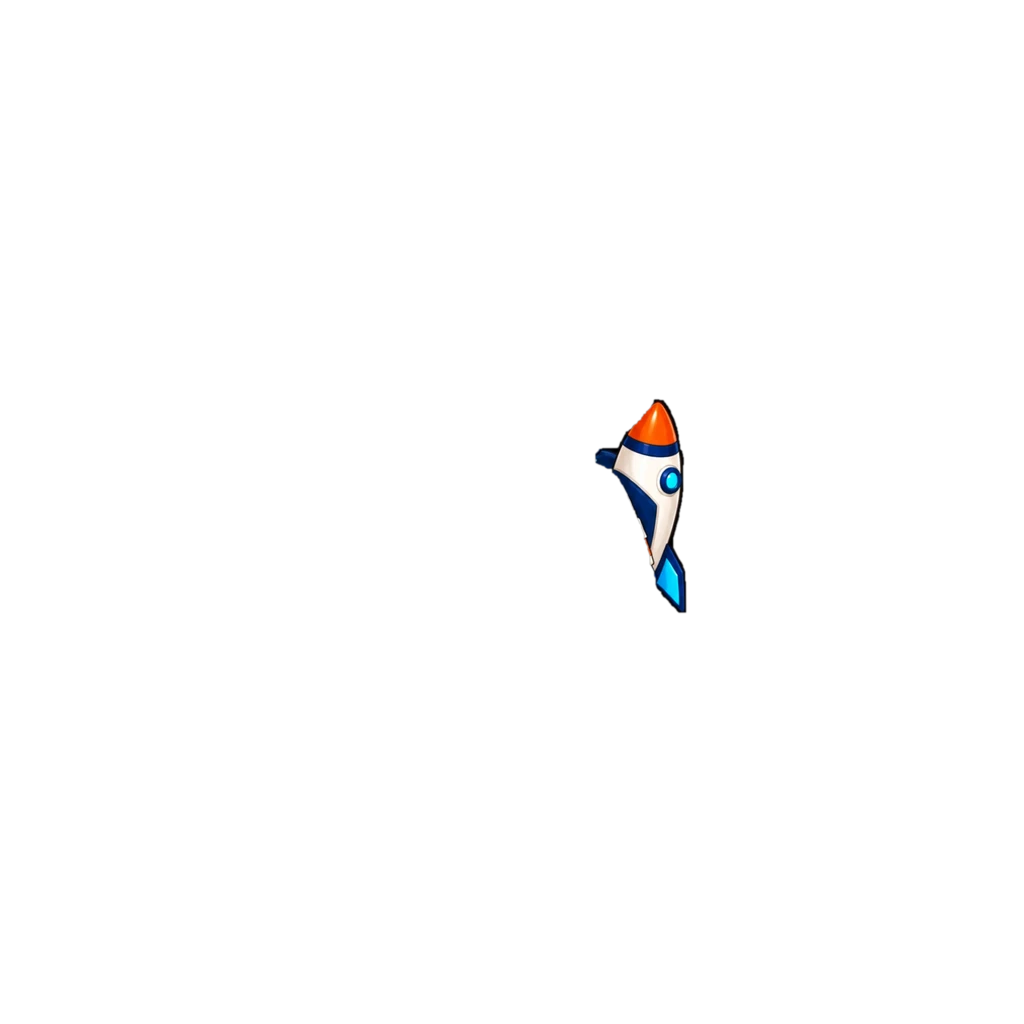
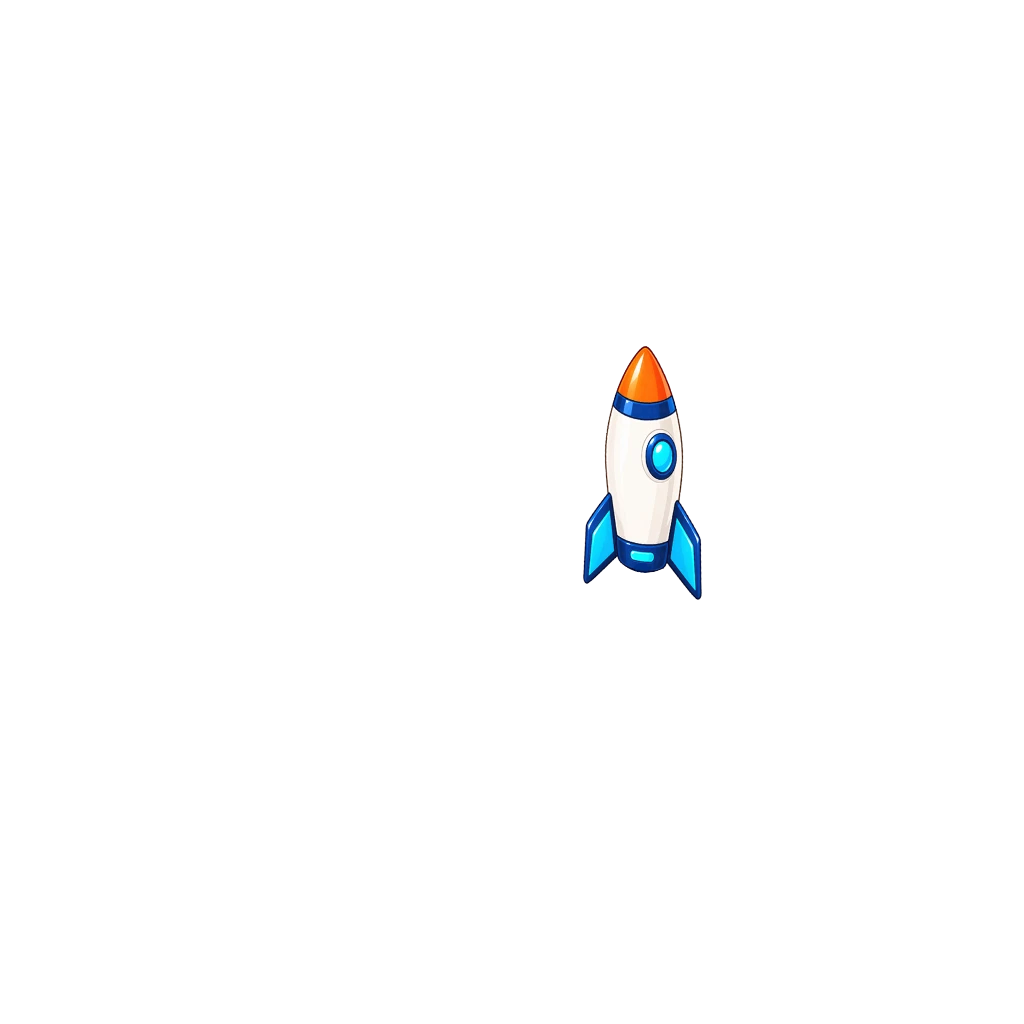
남아 로켓 가방 새 원화로 교체 — 로켓은 몸 뒤, 어깨끈은 옷 위 (칼라 규칙 적용) (#1023)
Claude-Session: https://claude.ai/code/session_018maNuYqDfFyRSe9uKpZhPR

Changed region(s): [[0.5625, 0.3438, 0.6875, 0.5938]]

diff --git a/src/data/avatarEquipment.js b/src/data/avatarEquipment.js
@@ -522,9 +522,6 @@ export const AVATAR_CATALOG = [
      같은 배율(0.638)·목깃선(y640)으로 탑재해 우주복과 갈아입어도 자리가 안 어긋난다.
      [2026-09-30] 우주 헬멧(hat_astronaut)은 사용자가 미리보기를 보고 바로
      빼 달라고 해서 뺐다 — 아래 RETIRED_ITEM_INFO 참고, 그림 파일은 남겨 둔다. */
-  /* 로켓 가방 — 원화가 어깨 너머로 들여다본 모습이라, 몸통에 가려지는 부분은 버리고
-     실루엣 밖으로 삐져나온 로켓 덩어리만 오려 냈다(등 슬롯 기본 z15 그대로 — 몸통 뒤에서
-     튀어나온 부분만 보이면 되므로 앞으로 끌어올 필요가 없었다). */
   /* 해적 가방(처음 이름 탐험 가방) [2026-10-05] — 남아. 갈색 가죽 배낭 + 지도 두루마리(사용자 원화 290×373) · 어깨끈(사용자 원화 263×198).
      한 아이템이 몸 앞뒤로 나뉜다 — 가방 몸통(img)은 등 장비 기본 z15 로 몸 뒤에, 어깨끈(imgFront)은 zFront 48 로
      옷·목 장식 위(모자 50 아래)에 그린다. 끈은 배율 0.76·가운데 x516·위끝 y414(어깨 윗선), 가방은 배율 0.70·원점 (505,350)
@@ -540,7 +537,11 @@ export const AVATAR_CATALOG = [
      옷이 넓어진 만큼 가로도 따라가게(왼쪽 끈 왼쪽으로 3·오른쪽 끈 오른쪽으로 1). 끈 상자 (428,406,600,556). imgFront ?v=6. */
   /* [2026-10-13] 칼라가 끈 위로 — 바다·번개·도토리(썸머·우주는 사용자 요청으로 원래대로 끈이 칼라 위): 그 옷 칼라·후드·망토 모자 모양대로 끈을 지운 판(topVariant, art-src/tools/collar_cut.py). */
   { id: "back_explorer",  slot: "back",  label: "해적 가방",    emoji: "🏴☠", price:DECOR_PRICE.rare, rarity: "rare", theme: "pirate", forGender: "boy", img: "assets/avatar/back/explorer-pack-boy.webp?v=3", imgFront: "assets/avatar/back/explorer-pack-straps-boy.webp?v=6", zFront: 48, topVariant: { top_acorn: { imgFront: "assets/avatar/back/explorer-pack-straps-acorn-boy.webp" }, top_board_boy: { imgFront: "assets/avatar/back/explorer-pack-straps-board-boy.webp" }, top_hoodie_mint: { imgFront: "assets/avatar/back/explorer-pack-straps-hoodie-boy.webp" } }, thumb: "assets/avatar/thumb/back_explorer.webp" },
-  { id: "back_rocket",    slot: "back",  label: "로켓 가방",    emoji: "🚀", price:DECOR_PRICE.rare, rarity: "rare", theme: "space", forGender: "boy", img: "assets/avatar/back/rocket-pack-boy.webp", thumb: "assets/avatar/thumb/back_rocket.webp" },
+  /* 로켓 가방 [2026-10-13 새 원화로 교체] — 남아. 흰 로켓(주황 머리·파랑 창·날개, 사용자 원화 210×447) + 남색 어깨끈 두 줄(251×178). 우주 탐험대와 짝.
+     사용자 참고 그림을 우주복 가슴(패널·배지)으로 매칭해 아바타 좌표에 올림. 로켓은 몸 뒤 오른쪽(등 장비 기본 z15) —
+     머리 끝 (645,348)·배율 0.58·-6°, 상자 (582,345,702,601). 어깨끈은 조각마다 배율 0.62, 윗선은 몸 어깨선·바깥선은 팔과 몸통 사이 선에 맞춤,
+     옷 위 zFront 48, 상자 (435,408,594,519). 칼라가 끈 위로 — 바다·번개·썸머·도토리·우주는 그 옷 칼라·후드 모양대로 끈을 지운 판(topVariant). */
+  { id: "back_rocket",    slot: "back",  label: "로켓 가방",    emoji: "🚀", price:DECOR_PRICE.rare, rarity: "rare", theme: "space", forGender: "boy", img: "assets/avatar/back/rocket-pack-boy.webp?v=2", imgFront: "assets/avatar/back/rocket-pack-straps-boy.webp", zFront: 48, topVariant: { top_hoodie_mint: { imgFront: "assets/avatar/back/rocket-pack-straps-hoodie-boy.webp" }, top_board_boy: { imgFront: "assets/avatar/back/rocket-pack-straps-board-boy.webp" }, top_beach_boy: { imgFront: "assets/avatar/back/rocket-pack-straps-beach-boy.webp" }, top_acorn: { imgFront: "assets/avatar/back/rocket-pack-straps-acorn-boy.webp" }, top_space: { imgFront: "assets/avatar/back/rocket-pack-straps-space-boy.webp" } }, thumb: "assets/avatar/thumb/back_rocket.webp?v=2" },
   /* 번개 크로스백 [2026-10-11] — 남아. 남색·청록 크로스백(노란 지퍼 고리·검정 끈) 한 장, 사용자 원화 254×277. 번개 스케이터와 짝.
      사용자 참고 그림(얼굴 매칭 0.965)대로 왼쪽 어깨(452,418)에서 오른쪽 가슴 아래로 — 끈 윗끝·노란 지퍼 고리(556,543) 두 점 맞춤, 배율 0.723·-6.0°.
      옷 위·목 장식 아래 z 38. 상자 (434,411,631,595).

diff --git a/art-src/README.md b/art-src/README.md
@@ -356,7 +356,7 @@ getBoundingClientRect로 재서 정한다. 2026-08-05 점검에서 이 기준을
 | sky-girl-tights-src.webp | 위 옷의 **타이츠 있는 판** (알파 상자 (206,707)-(625,1582)). **안 썼다** — 아래 '옷만 오려 낸 원화' 절 참고. 타이츠 아이템을 따로 만들 때 다시 쓸 수 있어 남겨 둔다 | (미탑재) |
 | space-boy-src.webp | **우주복 원화 남아 — 새 판 (사용자 원화 2026-10-03, 이전 판 교체)**. 461×713 투명 배경, 흰 우주복(남색 목깃·어깨·소매·벨트·무릎보호대, 제어판·토성 패치, 주황 포인트) 발목까지 한 벌 — 앞 판(2026-09-29 우주 세트)과 같은 디자인에 어깨·소매가 다 그려졌다. 목깃 안(원화 y0~31, x140~329)의 R≥B 픽셀(턱선·목 살)을 지워 베이스 목이 비치게 했다. 앞 판 자리(배율 0.716, 상관 0.95)에서는 어깨 위로 베이스 어깨·속옷 끈이 비쳐, 목깃 가운데 x230.5 → x516, 배율 0.758, 목깃 위끝 y394 로 올려 어깨를 덮음. 바지 끝 y934 가 우주 부츠의 부츠목을 덮는다. 탑재 상자 (341,394,690,934) · img ?v=4 **[2026-10-03 조정]** 8% 작게(0.6974, 목깃 고정), 상자 (355,394,677,891) · img ?v=5. 위로 3(목깃 y391), 상자 (355,391,677,888) · img ?v=6. 왼쪽 3·위로 2(목깃 x513·y389), 상자 (352,389,674,886) · img ?v=7. 오른쪽 1(목깃 x514), 상자 (353,389,675,886) · img ?v=8. 1% 작게(0.6904)·위로 1(목깃 y388), 상자 (355,388,673,880) · img ?v=9. 화면 왼쪽 다리만 오른쪽으로 1(사타구니 y676 부터 60px 에 걸쳐 0→1px) · img ?v=10. 같은 방식으로 1 더(합계 2px) · img ?v=11 | avatar/top/space-suit-boy.webp |
 | astronaut-helmet-boy-src.webp | **우주 헬멧 원화 남아 (사용자 원화 2026-09-29, 우주 세트 2/4 — '옷+헬멧' 그림에서 목깃 아래를 잘라 보관)** — 554×480 캔버스, 이미 '쓰고 있는 머리 그림'이라 얼굴 위치를 눈으로 맞출 필요가 없었다. 흰 돔 + 남색 링·귀 스피커 + 하늘색 바이저 하이라이트. hidesHead(베이스 머리 전체를 이 그림이 대신한다). 배율은 우주복과 같은 0.638 — 헬멧 밑단(목깃 최고점, 원화 y632)을 우주복 목깃 위끝(y640)과 같은 자리(y405)에 맞춰서 둘 사이에 틈이나 겹침이 없다. 탑재 상자 (216,2)-(569,308). **[2026-09-30] 사용자가 미리보기로 써 보고 바로 빼 달라고 해서 카탈로그에서 뺐다**(hat_astronaut, RETIRED_ITEM_INFO) — 그림·원본은 CLAUDE.md 6 번과 달리 '교체'가 아니라 '보류'라 그대로 둔다 | avatar/hat/astronaut-helmet-boy.webp |
-| rocket-pack-boy-src.webp | **로켓 가방 원화 남아 (사용자 원화 2026-09-29, 우주 세트 4/4 — '옷+헬멧+가방+신발' 그림에서 오려 냄)** — 142×321 캔버스. 원화가 어깨 너머로 비스듬히 얹힌 로켓이라, 등 슬롯 기본 z(15, 몸통 뒤)로 두면 몸통 실루엣 밖으로 삐져나온 부분만 보이는데 그게 딱 원화가 보여 주는 모습이라 **z를 따로 안 올렸다**(탐험 배낭 어깨끈과 달리 앞으로 끌어올 필요가 없었다). 떼어내는 방법: '같은 세트의 신발까지만 있는 그림'(옷+헬멧+신발, 가방 없음)과 특징점 정합(ORB)한 뒤, 몸통 실루엣을 15px 넉넉히 부풀려 그 밖으로 나온 덩어리만 남겼다(색차가 아니라 실루엣 비교라 몸통색과 겹쳐도 안전). 탑재 배율 0.638 그대로, 세트 정합으로 계산한 상자 (222,39 기준계)를 거쳐 최종 탑재 | avatar/back/rocket-pack-boy.webp |
+| rocket-pack-boy-src.webp · rocket-pack-straps-boy-src.webp | **로켓 가방 원화 남아 (사용자 원화 2026-10-13, 새 버전으로 교체)** — 흰 로켓 210×447 + 남색 어깨끈 두 줄 251×178, 우주 탐험대와 짝. 참고 그림을 우주복 가슴으로 매칭해 로켓은 몸 뒤 오른쪽(z15) 머리 끝 (645,348)·배율 0.58·-6°, 상자 (582,345,702,601). 어깨끈은 왼쪽(x0~125)·오른쪽(x126~) 조각마다 배율 0.62, 윗선 어깨선·바깥선 팔과 몸통 사이 선, zFront 48, 상자 (435,408,594,519). 칼라 있는 5벌(바다·번개·썸머·도토리·우주)은 칼라 모양대로 끈을 지운 판. 상점 그림은 로켓 원화를 세로 160px 로 | avatar/back/rocket-pack-boy.webp · avatar/back/rocket-pack-straps-boy.webp · avatar/back/rocket-pack-straps-{hoodie,board,beach,acorn,space}-boy.webp · thumb/back_rocket.webp |
 | astronaut-boots-boy-src.webp | **우주 부츠 원화 남아 — 새 판 (사용자 원화 2026-10-03, 이전 판 교체)**. 352×173 투명 배경, 남색·흰 우주 부츠(하늘색 띠·주황 탭) 두 짝. 두 짝(x0~141 · x213~351)을 따로 잘라 배율 0.72, 부츠목 가운데를 남아 다리 가운데(x450.5·x574.5)에 두고 왼짝 +2·오른짝 −2, 밑창 아래끝 y949. 맨발 9px. 옷 위로(z37). 탑재 상자 (391,824,632,949). 상점 그림도 원화를 세로 160px 로 바꿈. **[2026-10-03 조정]** 두 짝 1% 크게(0.7272), 상자 (391,823,632,949) · img ?v=3. 화면 왼쪽 짝만 왼쪽으로 2, 상자 (389,823,632,949) · img ?v=4 | avatar/shoes/astronaut-boots-boy.webp · thumb/shoes_astronaut.webp |
 | pirate-boots-boy-src.webp | **[2026-10-03 판매 중단]** 사용자 요청으로 상점에서 뺐다(산 아이 200코인 환불, 꼬마해적 신발이 대신 들어옴). 그림·원본은 남겨 둔다. **해적 신발 원화 남아 (사용자 원화 2026-10-01)** — 1848×851 캔버스, 받을 때 이미 알파가 있었지만 **알파 1~19 짜리 헤일로 5,506px**가 있어 눌러서 보관했다(알파≥20 상자 (501,248)-(1325,673), 눌러 자른 저장본은 825×426). 갈색 가죽 + 금색 버클. **탑재**: 베이스 다리가 신발 짝 사이 간격보다 좁아 균등 배율(0.3404)로는 발이 신발 안쪽에 치우쳐 보였다 — 가로만 0.300 으로 더 눌러(세로 0.3404 유지) 다리 중심(왼 440·오른 580)에 맞췄다. 밑단 위끝은 우주 부츠와 같은 y865 — 신발 종류가 바뀌어도 밑단 높이가 안 흔들린다 | avatar/shoes/pirate-boots-boy.webp |
 | (딸기 소풍·별빛 마법사 재탑재 2026-09-25) | **원화가 언젠가 '옷만 오려 낸 깨끗한 그림'으로 바뀌어 있었는데 탑재본은 옛날 '색으로 떼어낸' 판 그대로였다.** 그래서 탑재본에는 손·목 조각과 **천에 뚫린 구멍**이 남아 있었다 (딸기 소풍: 안쪽 구멍 42개 10,954px — 깅엄의 흰 칸과 크림 블라우스가 통째로 날아가 있었다. 입은 모습에선 베이스의 흰 속옷이 블라우스 노릇을 해서 안 보였고, 상점 카드도 배경이 흰색이라 가려졌다). **패치가 아니라 깨끗한 원화에서 다시 올렸다.** 현재 자리를 지키려고 옛 탑재본과 색이 가장 잘 맞는 배율·오프셋을 찾아 썼다 (마법사 0.583/(263,-32) 색차 7.4 · 소풍 0.596/(259,-44) 색차 19.7, 덮임 97%). 새 상자 — 마법사 (353,356)-(667,755) · 소풍 (372,366)-(651,686). 경로에 `?v=2` 를 붙였다. **교훈: 원화가 새 판으로 바뀌면 탑재본도 같이 다시 올릴 것** | avatar/top/magic-outfit-girl.webp · picnic-outfit-girl.webp |
